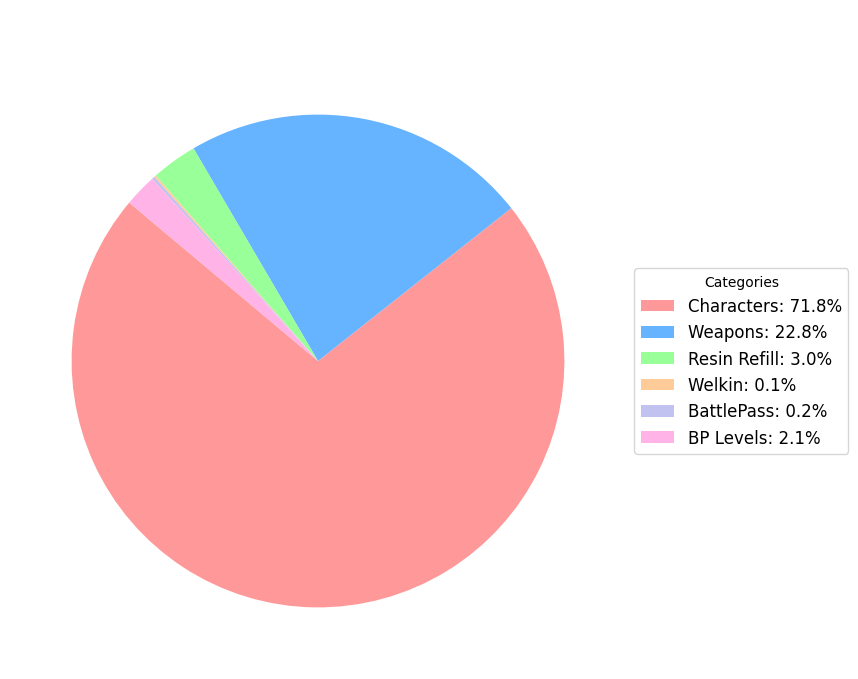
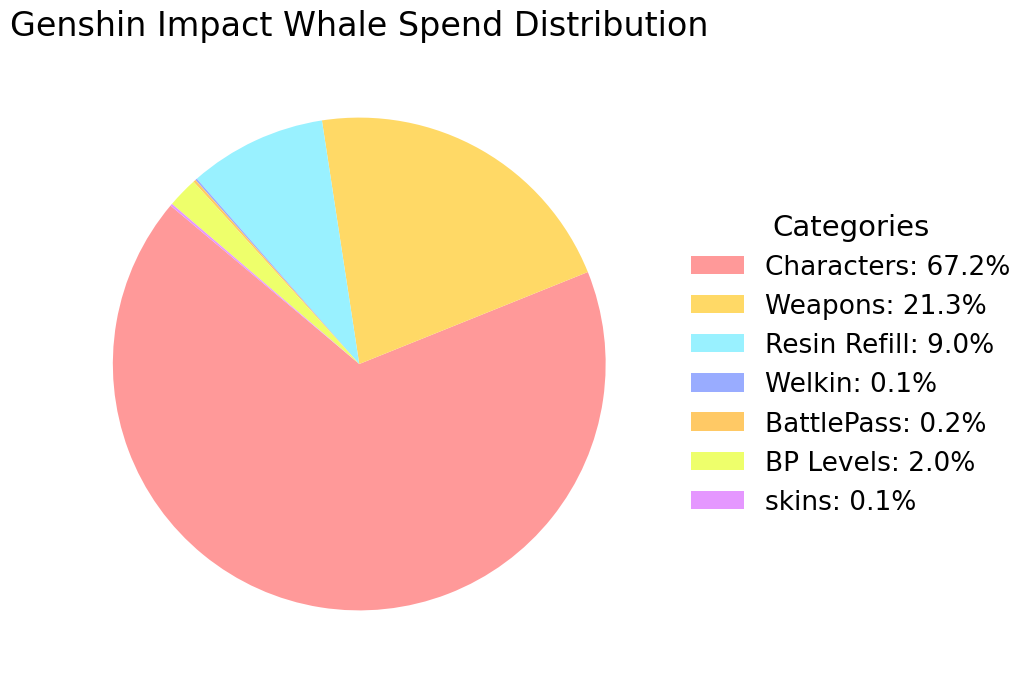
Update
[fix]
- if charecters API dont work it will use hard coded list fix #10
- add exponencial cost of resin refil #1
- make all function start with lower leather with under line

[update]
- make pie chard whith wite BG and black text #9

[add]
- skin list and calculator #3

diff --git a/whale_calculator.py b/whale_calculator.py
@@ -17,7 +17,7 @@ class whalecalculator:
         }
         self.primo = {
             "bplvup": 150,
-            "refil_resin": 50,
+            "refil_resin": [50, 100, 100, 150, 200, 200],
             "pull": 160
         }
         self.total_spend = 0
@@ -29,14 +29,15 @@ class whalecalculator:
         self.days_from_releas = self.days_from_releas.days
         self.versin_released = self.days_from_releas // (7 * 6) 
 
-        self.Characters()
-        self.Weapons()
-        self.Welkin_Moon()
-        self.Batle_pass()
-        self.Batle_pass_levl_up()
-        self.Daly_resin_refill()
+        self.characters()
+        self.weapons()
+        self.welkin_moon()
+        self.battle_pass()
+        self.battle_pass_levl_up()
+        self.daly_resin_refill()
+        self.skins()
 
-    def Characters(self):
+    def characters(self):
         self.char_standard5_list = ["Jean", "Diluc", "Qiqi", "Mona", "Keqing", "Tighnari", "Dehya", "Mizuki"]
         self.char_standard5_count = len(self.char_standard5_list) 
         self.char_limited5char_list = self.get_limited_character_count()
@@ -50,7 +51,7 @@ class whalecalculator:
 
         self.total_spend += self.char_spend
     
-    def Weapons(self):
+    def weapons(self):
         self.wpn_count = self.char_limited5_count
         self.wpn_pulls_one_copy = 80
         self.wpn_pulls_R5 = self.wpn_pulls_one_copy * 5
@@ -60,32 +61,55 @@ class whalecalculator:
 
         self.total_spend += self.wpn_spend
 
-    def Welkin_Moon(self):
+    def welkin_moon(self):
         self.welkin_moon_owned = self.days_from_releas // 30 
         self.welkin_moon_spend = self.welkin_moon_owned * self.prices["welkin"]
         
         self.total_spend += self.welkin_moon_spend
 
-    def Batle_pass(self):
+    def battle_pass(self):
         self.BP_owned = self.versin_released
         self.BP_spend = self.BP_owned * self.prices["battle_pass"]
         
         self.total_spend += self.BP_spend
 
-    def Batle_pass_levl_up(self):
-        self.BP_LV_UP_count = self.BP_owned * 50
+    def battle_pass_levl_up(self):
+        self.BP_LV_UP_levels = 50
+        self.BP_LV_UP_count = self.BP_owned * self.BP_LV_UP_levels
         self.BP_LV_UP_spend_primo = self.BP_LV_UP_count * self.primo["bplvup"]
         self.BP_LV_UP_spend = self.primo_to_usd(self.BP_LV_UP_spend_primo)
 
         self.total_spend += self.BP_LV_UP_spend 
 
-    def Daly_resin_refill(self):
-        self.resin_refill_limit = 5
-        self.resin_refil_count = self.resin_refill_limit * self.days_from_releas
-        self.resin_refil_spend_primo = self.resin_refil_count * self.primo["refil_resin"]
+    def daly_resin_refill(self):
+        self.resin_refill_dayli_refil = sum(self.primo["refil_resin"])
+        self.resin_refil_spend_primo = self.resin_refill_dayli_refil * self.days_from_releas
         self.resin_refil_spend = self.primo_to_usd(self.resin_refil_spend_primo)
 
         self.total_spend += self.resin_refil_spend
+
+    def skins(self):
+        self.skin_list = [
+            1680, # Sea Breeze Dandelion - Jean
+            1680, # Summertime Sparkle - Barbara
+            1680, # Opulent Splendor - Keqing
+            1680, # Orchid's Evening Gown - Ningguang
+            2480, # Red Dead of Night - Diluc
+            1680, # Ein Immernachtstraum - Fischl
+            1680, # Springbloom Missive - Ayaka
+            1680, # A Sobriquet Under Shade - Lisa
+            1680, # Blossoming Starlight - Klee
+            1680, # Sailwind Shadow - Kaeya
+            1680, # Frostflower Dew - Ganyu
+            1680, # Twilight Blossom - Shenhe
+            1680, # Bamboo Rain - Xingqiu
+            1680, # Breeze of Sabaa - Nilou
+            1680, # Phantom in Boots - Kirara
+        ]
+        self.skin_total_primo = sum(self.skin_list)
+        self.skin_spend = self.primo_to_usd(self.skin_total_primo)
+
+        self.total_spend += self.skin_spend
 
     def get_limited_character_count(self):
             # requests
@@ -95,9 +119,9 @@ class whalecalculator:
         if response.status_code == 200:
             characters = list(response.json())
         else:
-            print("error, API don't work")
-            return []
-        
+            print("error, API don't work, using hard code list")
+            characters = ['Aether', 'Albedo', 'Alhaitham', 'Aloy', 'Arataki Itto', 'Arlecchino', 'Baizhu', 'Chasca', 'Chiori', 'Citlali', 'Clorinde', 'Columbina', 'Cyno', 'Dehya', 'Diluc', 'Durin', 'Emilie', 'Escoffier', 'Eula', 'Flins', 'Furina', 'Ganyu', 'Hu Tao', 'Ineffa', 'Jean', 'Kaedehara Kazuha', 'Kamisato Ayaka', 'Kamisato Ayato', 'Keqing', 'Kinich', 'Klee', 'Lauma', 'Linnea', 'Lumine', 'Lyney', 'Manekin', 'Manekina', 'Mavuika', 'Mona', 'Mualani', 'Nahida', 'Navia', 'Nefer', 'Neuvillette', 'Nilou', 'Qiqi', 'Raiden Shogun', 'Sangonomiya Kokomi', 'Shenhe', 'Sigewinne', 'Skirk', 'Tartaglia', 'Tighnari', 'Varesa', 'Varka', 'Venti', 'Wanderer', 'Wriothesley', 'Xianyun', 'Xiao', 'Xilonen', 'Yae Miko', 'Yelan', 'Yoimiya', 'Yumemizuki Mizuki', 'Zhongli', 'Zibai']
+            
             # Filter standard 5*
         limited5char = []
         for char in characters:
@@ -108,6 +132,10 @@ class whalecalculator:
         return limited5char
 
     def primo_to_usd(self, primo):
+        """
+        Take primo and transfer it in to usd base.
+        I use avrige of all bundles becose i wont maximum acurate primo to usd.
+        """
         bundles = self.prices["crystal"]
 
         costs_per_crystal = []
@@ -138,6 +166,9 @@ class whalecalculator:
             "resin_refill": {
                 "spend": self.resin_refil_spend   
             },
+            "skin": {
+                "spend": self.skin_spend
+            },
             "total_spend": self.total_spend
         }
 
@@ -145,12 +176,14 @@ class whalecalculator:
         print(f"""
 {"="*40}
             Total Spend
+all C6 characters   {self.char_spend:.2f} usd
+all R5 weapons      {self.wpn_spend:.2f} usd 
 Welkin Moon         {self.welkin_moon_spend:.2f} usd
 Battle Pass         {self.BP_spend:.2f} usd
 Battle Pass levl up {self.BP_LV_UP_spend:.2f} usd
 Refil Resin         {self.resin_refil_spend:.2f} usd
-all C6 characters   {self.char_spend:.2f} usd
-all R5 weapons      {self.wpn_spend:.2f} usd 
+Skins               {self.skin_spend:.2f} usd
+
 
 total               {self.total_spend:.2f} usd
 {"="*40}

diff --git a/update_readme.py b/update_readme.py
@@ -21,7 +21,7 @@ def format_row(name, usd_value, total_usd):
     return f"| {name} | {eur_value:.2f} EUR | {usd_value:.2f} USD | {percent:.1f}% |"
 
 def generate_pie_chart(data):
-    categories = ['Characters', 'Weapons', 'Resin Refill', 'Welkin', 'BattlePass', 'BP Levels']
+    categories = ['Characters', 'Weapons', 'Resin Refill', 'Welkin', 'BattlePass', 'BP Levels', 'skins']
     values = [
         data["Characters"]["spend"],
         data["Weapons"]["spend"],
@@ -29,12 +29,13 @@ def generate_pie_chart(data):
         data["Welkin_Moon"]["spend"],
         data["BP"]["spend"],
         data["BP_LV_UP"]["spend"],
+        data["skin"]["spend"],
     ]
 
     total = sum(values)
-    legend_labels = [f'{l}: {v/total*100:1.1f}%' for l, v in zip(categories, values)]
-
-    colors = ['#ff9999','#66b3ff','#99ff99','#ffcc99','#c2c2f0','#ffb3e6']
+    legend_labels = [f'{l}: {v/total*100:1.1f}%' for l, v in zip(categories, values)] 
+                # char       # wnp        #resin      #welkin     # BP        # BP lvs      #skin    
+    colors = ['#ff9999',"#ffd966","#99f1ff","#99acff","#ffc965","#eeff6b","#e597ff"]
 
     fig, ax = plt.subplots(figsize=(14, 8), facecolor='none')
 
@@ -42,7 +43,7 @@ def generate_pie_chart(data):
         values, 
         colors=colors, 
         startangle=140, 
-        pctdistance=0.85,
+        pctdistance=0.95,
         labeldistance=1.1
     )
 
@@ -50,15 +51,17 @@ def generate_pie_chart(data):
         wedges, 
         legend_labels,
         title="Categories",
+        title_fontsize=21,
         loc="center left",
         bbox_to_anchor=(1, 0, 0.5, 1),
-        fontsize=12,
-        frameon=True,
+        
+        fontsize=19,
+        frameon=False,
     )
 
-    ax.set_title('Genshin Impact Whale Spend Distribution', pad=20, size=16, color='white')
+    ax.set_title('Genshin Impact Whale Spend Distribution', pad=15, size=24)
 
-    plt.savefig('spend_chart.png', transparent=True, bbox_inches='tight')
+    plt.savefig('spend_chart.png', bbox_inches='tight', transparent=False, facecolor="white")
     plt.close()
 
 def write_readme(markdown):
@@ -90,12 +93,14 @@ This is a Calculator what is a maximu for GI whale spend on game with worst luck
 ## Table Spend Distribution
 | Type | Spend (EUR) | Spend (USD) | Share |
 | :--- | :--- | :--- | :--- |
-{format_row("all C6 characters", data["Characters"]["spend"], data["total_spend"])}
-{format_row("all R5 weapons", data["Weapons"]["spend"], data["total_spend"])}
+{format_row("All C6 characters", data["Characters"]["spend"], data["total_spend"])}
+{format_row("All R5 weapons", data["Weapons"]["spend"], data["total_spend"])}
 {format_row("Welkin Moon", data["Welkin_Moon"]["spend"], data["total_spend"])}
 {format_row("Battle Pass", data["BP"]["spend"], data["total_spend"])}
 {format_row("Battle Pass Level Up", data["BP_LV_UP"]["spend"], data["total_spend"])}
 {format_row("Resin Refill", data["resin_refill"]["spend"], data["total_spend"])}
+{format_row("All skins", data["skin"]["spend"], data["total_spend"])}
+
 | | | | |
 | **Total** | **{data["total_spend"] * eur_rate:.2f} EUR** | **{data["total_spend"]:.2f} USD** | **100%** |
 """

diff --git a/README.md b/README.md
@@ -8,11 +8,13 @@ This is a Calculator what is a maximu for GI whale spend on game with worst luck
 ## Table Spend Distribution
 | Type | Spend (EUR) | Spend (USD) | Share |
 | :--- | :--- | :--- | :--- |
-| all C6 characters | 161469.58 EUR | 190002.21 USD | 71.8% |
-| all R5 weapons | 51260.18 EUR | 60318.16 USD | 22.8% |
-| Welkin Moon | 284.12 EUR | 334.33 USD | 0.1% |
-| Battle Pass | 407.51 EUR | 479.52 USD | 0.2% |
-| Battle Pass Level Up | 4805.64 EUR | 5654.83 USD | 2.1% |
-| Resin Refill | 6781.29 EUR | 7979.59 USD | 3.0% |
+| all C6 characters | 161938.88 EUR | 190002.21 USD | 67.2% |
+| all R5 weapons | 51409.17 EUR | 60318.16 USD | 21.3% |
+| Welkin Moon | 284.95 EUR | 334.33 USD | 0.1% |
+| Battle Pass | 408.69 EUR | 479.52 USD | 0.2% |
+| Battle Pass Level Up | 4819.61 EUR | 5654.83 USD | 2.0% |
+| Resin Refill | 21773.92 EUR | 25547.25 USD | 9.0% |
+| All skins | 348.08 EUR | 408.40 USD | 0.1% |
+
 | | | | |
-| **Total** | **225008.33 EUR** | **264768.64 USD** | **100%** |
+| **Total** | **240983.31 EUR** | **282744.70 USD** | **100%** |
